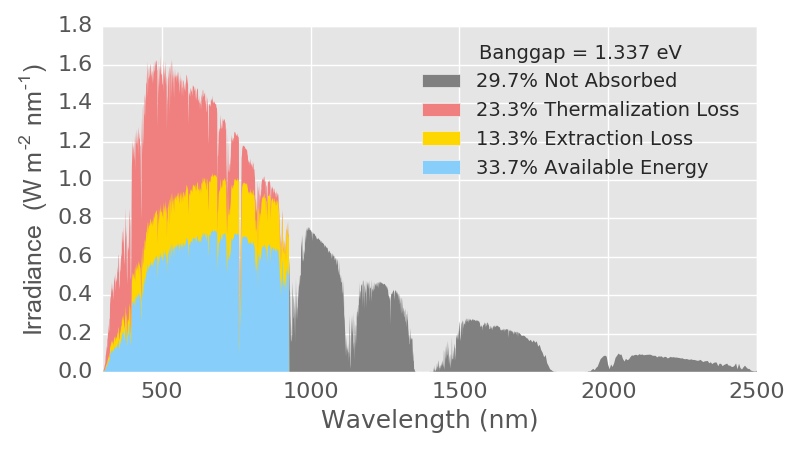
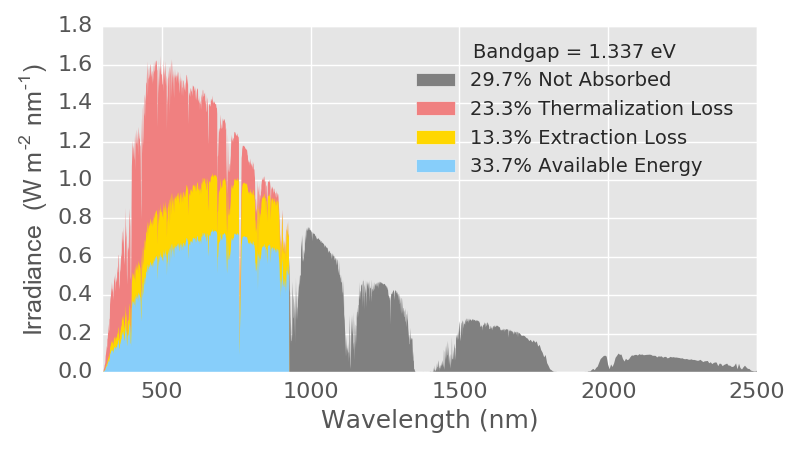
fixed Text

Changed region(s): [[0.5, 0.0933, 0.9375, 0.4044], [0.5, 0.1556, 0.5312, 0.1867]]

diff --git a/SQlimit.py b/SQlimit.py
@@ -251,7 +251,7 @@ def E_loss(Eg, SQ=SQlim(), xmin=300, xmax=2500, savefig=False):
     E_pct= {'trans':np.sum(transloss)/E_tot, 'therm':np.sum(thermloss)/E_tot,
             'extract': np.sum(extractloss)/E_tot, 'avail':np.sum(Eavail)/E_tot}
 
-    legendtitle = "Banggap = {0:.3f} eV".format(Eg)
+    legendtitle = "Bandgap = {0:.3f} eV".format(Eg)
     legends = [plt.Rectangle((0, 0), 1, 1, facecolor=colors[i], edgecolor=None)
                for i in ['trans', 'therm', 'extract', 'avail'] ]
 
